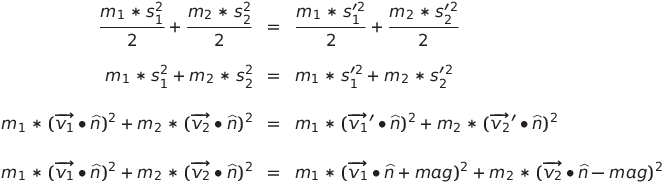
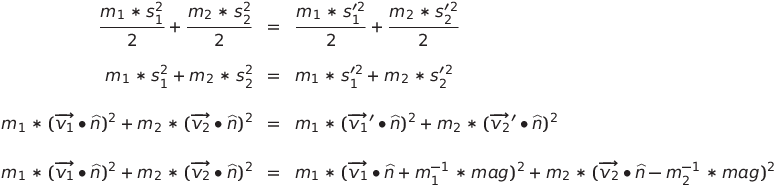
Got the end equations to look right.
Now just want to make sure the overall formatting looks sane.

diff --git a/doc/physics.latex.md b/doc/physics.latex.md
@@ -38,37 +38,22 @@ m_1 * mag_1 &=& m_2 * mag_2
 \end{cases}
 ```
 
-## linear_energy_eqn1
+## linear_velocities_along_normal
 ```latex
-\frac{m_1 * s_1^2}{2} + \frac{m_2 * s_2^2}{2} = \frac{m_1 * s_1'^2}{2} + \frac{m_2 * s_2'^2}{2}
-```
-
-## linear_impulse_eqn1
-```latex
-\begin{cases}
-\overrightarrow{v_1}'  = \overrightarrow{v_1} + mag * \widehat{n} \\
-\overrightarrow{v_2}' = \overrightarrow{v_2} - mag * \widehat{n} \\
+&& \begin{cases}
+\overrightarrow{v_1}' \bullet \widehat{n} = (\overrightarrow{v_1} + m_1^{-1} * mag * \widehat{n}) \bullet \widehat{n} \\
+\overrightarrow{v_2}' \bullet \widehat{n} = (\overrightarrow{v_2} + m_2^{-1} * mag * \widehat{n}) \bullet \widehat{n} \\
+\end{cases} \\
+\vspace{10} \\
+&& \begin{cases}
+\overrightarrow{v_1}' \bullet \widehat{n} = \overrightarrow{v_1} \bullet \widehat{n} + m_1^{-1} * mag \\
+\overrightarrow{v_2}' \bullet \widehat{n} = \overrightarrow{v_2} \bullet \widehat{n} + m_2^{-1} * mag \\
 \end{cases}
 ```
 
-## linear_impulse_along_normal
+## linear_energy_eqn1
 ```latex
-\begin{flushleft}
-\begin{cases}
-\overrightarrow{v_1}'  = \overrightarrow{v_1} + mag * \widehat{n} \\
-\overrightarrow{v_2}' = \overrightarrow{v_2} - mag * \widehat{n} \\
-\end{cases}\\
-\vspace{10} \\
-\begin{cases}
-\overrightarrow{v_1}' \bullet \widehat{n} = (\overrightarrow{v_1} + mag * \widehat{n}) \bullet \widehat{n} \\
-\overrightarrow{v_2}' \bullet \widehat{n} = (\overrightarrow{v_2} - mag * \widehat{n}) \bullet \widehat{n} \\
-\end{cases} \\
-\vspace{10} \\
-\begin{cases}
-\overrightarrow{v_1}' \bullet \widehat{n} = \overrightarrow{v_1} \bullet \widehat{n} + mag \\
-\overrightarrow{v_2}' \bullet \widehat{n} = \overrightarrow{v_2} \bullet \widehat{n} - mag \\
-\end{cases} \\
-\end{flushleft}
+\frac{m_1 * s_1^2}{2} + \frac{m_2 * s_2^2}{2} = \frac{m_1 * s_1'^2}{2} + \frac{m_2 * s_2'^2}{2}
 ```
 
 ## linear_energy_solve_part1
@@ -79,37 +64,38 @@ m_1 * s_1^2 + m_2 * s_2^2 &=& m_1 * s_1'^2 + m_2 * s_2'^2 \\
 \vspace{10} \\
 m_1 * (\overrightarrow{v_1} \bullet \widehat{n})^2 + m_2 * (\overrightarrow{v_2} \bullet \widehat{n})^2 &=& m_1 * (\overrightarrow{v_1}' \bullet \widehat{n})^2 + m_2 * (\overrightarrow{v_2}' \bullet \widehat{n})^2 \\
 \vspace{10} \\
-m_1 * (\overrightarrow{v_1} \bullet \widehat{n})^2 + m_2 * (\overrightarrow{v_2} \bullet \widehat{n})^2 &=& m_1 * (\overrightarrow{v_1} \bullet \widehat{n} + mag)^2 + m_2 * (\overrightarrow{v_2} \bullet \widehat{n} - mag)^2 \\
-\vspace{10}
+m_1 * (\overrightarrow{v_1} \bullet \widehat{n})^2 + m_2 * (\overrightarrow{v_2} \bullet \widehat{n})^2 &=& m_1 * (\overrightarrow{v_1} \bullet \widehat{n} + m_1^{-1} * mag)^2 + m_2 * (\overrightarrow{v_2} \bullet \widehat{n} - m_2^{-1} * mag)^2
 ```
 
 ## linear_energy_solve_part2
 ```latex
-m_k * (\overrightarrow{v_k} \bullet \widehat{n})^2 + ... &=& m_k * (\overrightarrow{v_k} \bullet \widehat{n} \pm mag)^2 + ... \\
+m_k * (\overrightarrow{v_k} \bullet \widehat{n})^2 + ... &=& m_k * (\overrightarrow{v_k} \bullet \widehat{n} \pm m_k^{-1} * mag)^2 + ... \\
 \vspace{10} \\
-m_k * (\overrightarrow{v_k} \bullet \widehat{n})^2 + ... &=& m_k * [(\overrightarrow{v_k} \bullet \widehat{n})^2 \pm 2 * mag * (\overrightarrow{v_k} \bullet \widehat{n}) + mag^2] + ... \\
+m_k * (\overrightarrow{v_k} \bullet \widehat{n})^2 + ... &=& m_k * [(\overrightarrow{v_k} \bullet \widehat{n})^2 \pm 2 * m_k^{-1} * mag * (\overrightarrow{v_k} \bullet \widehat{n}) + m_k^{-2} * mag^2] + ... \\
 \vspace{10} \\
-0 + ... &=& m_k * [\pm 2 * mag * (\overrightarrow{v_k} \bullet \widehat{n}) + mag^2] + ...
+0 + ... &=& m_k * [\pm 2 * m_k^{-1} * mag * (\overrightarrow{v_k} \bullet \widehat{n}) + * m_k^{-2} * mag ^2] + ... \\
+\vspace{10} \\
+0 + ... &=& \pm 2 * mag * (\overrightarrow{v_k} \bullet \widehat{n}) + * m_k^{-1} * mag ^2 + ...
 ```
 
 ## linear_energy_solve_part3
 ```latex
-0 &=& m_1 * (+2 * mag * (\overrightarrow{v_1} \bullet \widehat{n}) + mag^2) + m_2 * (-2 * mag * (\overrightarrow{v_2} \bullet \widehat{n}) + mag^2) \\
+0 &=& (+2 * mag * (\overrightarrow{v_1} \bullet \widehat{n}) + m_1^{-1} * mag^2) + (-2 * mag * (\overrightarrow{v_2} \bullet \widehat{n}) + m_2^{-1} * mag^2) \\
 \vspace{10} \\
-0 &=& [m_1 * (2 (\overrightarrow{v_1} \bullet \widehat{n}) + mag) + m_2 * (-2 * (\overrightarrow{v_2} \bullet \widehat{n}) + mag)] * mag
+0 &=& [2 * (\overrightarrow{v_1} \bullet \widehat{n}) + m_1^{-1} * mag - 2 * (\overrightarrow{v_2} \bullet \widehat{n}) + m_2^{-1} * mag] * mag
 ```
 
 ## linear_energy_solve_part4
 ```latex
-0 &=& [m_1 * (2 (\overrightarrow{v_1} \bullet \widehat{n}) + mag) + m_2 * (-2 * (\overrightarrow{v_2} \bullet \widehat{n}) + mag)] * mag \\
+0 &=& [2 * (\overrightarrow{v_1} \bullet \widehat{n}) + m_1^{-1} * mag - 2 * (\overrightarrow{v_2} \bullet \widehat{n}) + m_2^{-1} * mag] * mag \\
 \vspace{10} \\
-0 &=& m_1 * (2 (\overrightarrow{v_1} \bullet \widehat{n}) + mag) + m_2 * (-2 * (\overrightarrow{v_2} \bullet \widehat{n}) + mag) \\
+0 &=& 2 * (\overrightarrow{v_1} \bullet \widehat{n}) + m_1^{-1} * mag - 2 * (\overrightarrow{v_2} \bullet \widehat{n}) + m_2^{-1} * mag \\
 \vspace{10} \\
-0 &=& 2 * m_1 * (\overrightarrow{v_1} \bullet \widehat{n}) + m_1 * mag - 2 * m_2 * (\overrightarrow{v_2} \bullet \widehat{n}) + m_2 * mag \\
+0 &=& 2[(\overrightarrow{v_1} \bullet \widehat{n}) - (\overrightarrow{v_2} \bullet \widehat{n})] + (m_1^{-1} + m_2^{-1}) * mag \\
 \vspace{10} \\
-0 &=& 2 * (m_1 * (\overrightarrow{v_1} \bullet \widehat{n}) - m_2 * (\overrightarrow{v_2} \bullet \widehat{n})) + (m_2 +m_1) * mag \\
+-(m_1^{-1} + m_2^{-1}) * mag &=& 2[(\overrightarrow{v_1} \bullet \widehat{n}) - (\overrightarrow{v_2} \bullet \widehat{n})] \\
 \vspace{10} \\
--(m_2 +m_1) * mag &=& 2 * (m_1 * (\overrightarrow{v_1} \bullet \widehat{n}) - m_2 * (\overrightarrow{v_2} \bullet \widehat{n})) \\
+-(m_1^{-1} + m_2^{-1}) * mag &=& 2(\overrightarrow{v_1} - \overrightarrow{v_2}) \bullet \widehat{n} \\
 \vspace{10} \\
-mag &=& \frac{-2 * (m_1 * (\overrightarrow{v_1} \bullet \widehat{n}) - m_2 * (\overrightarrow{v_2} \bullet \widehat{n}))}{m_2 +m_1}
+mag &=& \frac{-2(\overrightarrow{v_1} - \overrightarrow{v_2}) \bullet \widehat{n}}{m_1^{-1} + m_2^{-1}}
 ```

diff --git a/doc/physics.md b/doc/physics.md
@@ -91,7 +91,7 @@ So the above become:
 
 ![linear whole system](./img/linear_whole_system.png)
 
-To start, we'll focus on the momentum equation. In order to make the entire system solvable, it's important to realize the two objects will react by moving in opposite directions along the same normal (i.e. Newton's Third Law). However the magnitude of those changes can be different (i.e. imagine a tennis-ball hitting a car; the car won't move much). So the relationship between the initial and final velocities should be:
+To start, we'll focus on the momentum equation. In order to make the entire system solvable, it's important to realize the two objects will react by moving in opposite directions along the same normal (i.e. Newton's Third Law). However the magnitude of those changes can be different (i.e. imagine a tennis ball hitting an asteroid; the asteroid won't move much). So the relationship between the initial and final velocities should be:
 
 ![linear velocities](./img/linear_velocities.png)
 
@@ -103,19 +103,13 @@ Which is most elegantly solved by simply scaling each by the corresponding inver
 
 ![linear velocities updated](./img/linear_velocities_updated.png)
 
+Now, for reasons that will become apparent in a moment, here's what happens when all those values are focused along just the normal:
+
+![linear velocities along normal](./img/linear_velocities_along_normal.png)
+
 And that's really all the inertia equation is good for. So lets now focus on the conservation of energy equation:
 
----
-
 ![linear energy equation 1](./img/linear_energy_eqn1.png)
-
-To make this solvable, we'll simplify the system to only change the velocity in the direction of the normal:
-
-![linear impulse equation 1](./img/linear_impulse_eqn1.png)
-
-The above can then further be modified to focus just on the velocity change in the direction of the normal:
-
-![linear impulse along normal](./img/linear_impulse_along_normal.png)
 
 Now since the velocity will only change along the collision `normal`, and equation equating total energy before and after the collision can drop any energy coming from speed orthogonal to the `normal` as it will never change. So the energy equation becomes:
 
